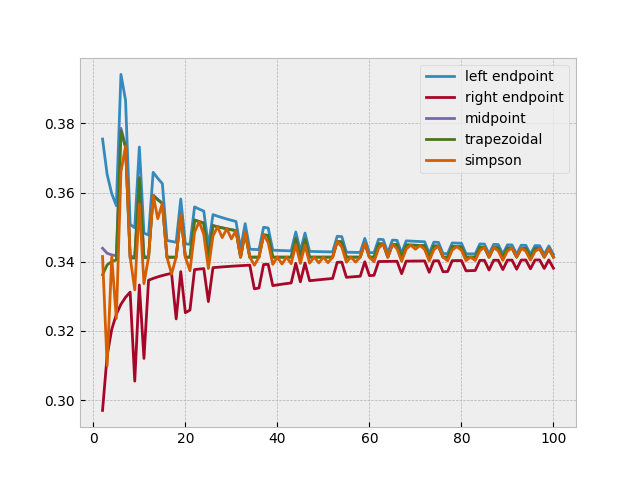
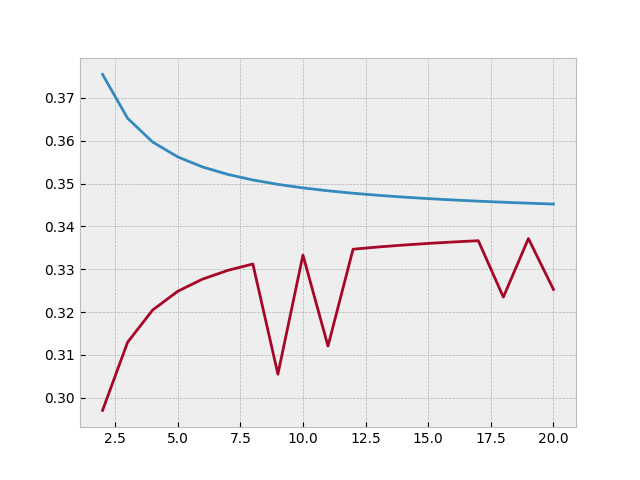
Fixed Left endpoint Work on right endpoint For stand_norm_prob

diff --git a/Assignment_45/test_45.py b/Assignment_45/test_45.py
@@ -1,7 +1,7 @@
 from standard_normal_probability_2 import *
 import matplotlib.pyplot as plt
 ''''
-print(calc_standard_normal_probability(0, 1, 100, "left endpoint"))
+print(calc_standard_normal_probability(0, 1, 6, "left endpoint"))
 print()
 print(calc_standard_normal_probability(0, 1, 100, "right endpoint"))
 print()
@@ -17,11 +17,15 @@ keys = ["left endpoint", "right endpoint", "midpoint", "trapezoidal", "simpson"]
 plt.style.use('bmh')
 x_points = []
 y_points = {key : [] for key in keys}
-for subinterval_number in range(2, 101) :
+for subinterval_number in range(2, 21) :
     x_points.append(subinterval_number)
     for key in keys :
         y_points[key].append(calc_standard_normal_probability(0, 1, subinterval_number, key))
+''''
 for key in keys :
     plt.plot(x_points, y_points[key])
 plt.legend(keys)
+'''
+plt.plot(x_points, y_points[keys[0]])
+plt.plot(x_points, y_points[keys[1]])
 plt.savefig('Assignment_45/eulerplot.png')

diff --git a/Assignment_45/standard_normal_probability_2.py b/Assignment_45/standard_normal_probability_2.py
@@ -4,10 +4,12 @@ def calc_standard_normal_probability(a,b,n,rule) :
     step_size = (b - a) / n
     step = a
     prediction = 0
+    step_number = 0
     if rule == "left endpoint" :
-        while step < b :
+        while step_number < n :
             prediction += funct(step)
             step += step_size
+            step_number += 1
         return prediction * step_size
 
     elif rule == "right endpoint" :
@@ -36,7 +38,6 @@ def calc_standard_normal_probability(a,b,n,rule) :
     elif rule == "simpson" :
         prediction += funct(step) 
         step += step_size
-        step_number = 1
         while step < b :
             if step_number % 2 == 0 :
                 coefficent = 2
